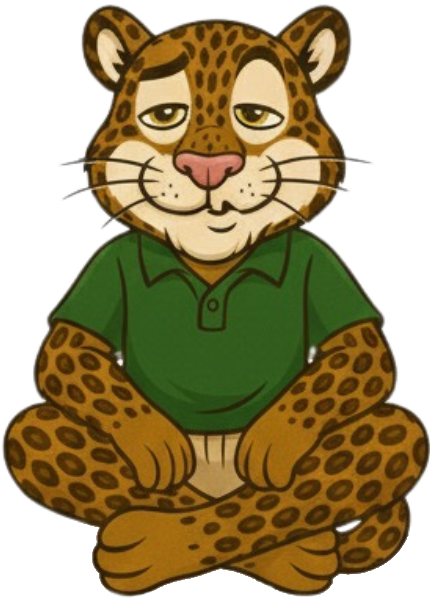
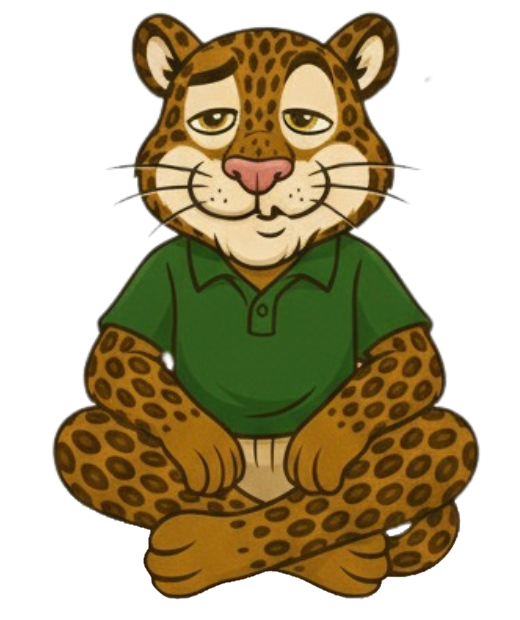
Align sprites

diff --git a/styles.css b/styles.css
@@ -165,21 +165,24 @@ body, html {
 .mascot-container {
     position: absolute;
     height: 50%;
+    width: 50%;
     top: 60%;
     left: 50%;
     transform: translate(-50%, -50%);
     text-align: center;
     z-index: 0;
+    background: url("sleeping.png") no-repeat center center;
 }
 
 .mascot {
     text-shadow: 4px 4px 8px rgba(0,0,0,0.3);
     transition: all 0.3s ease;
     filter: drop-shadow(0 10px 20px rgba(0,0,0,0.2));
+    
 }
 
 .mascot.sleeping {
-    /* animation: sleep 3s ease-in-out infinite; */
+    animation: sleep 3s ease-in-out infinite;
 }
 
 .mascot.awake {
@@ -201,15 +204,16 @@ body, html {
     filter: blur(12px);
 }
 
-/* @keyframes sleep {
-    0%, 100% { transform: scale(1) rotate(-2deg); }
-    50% { transform: scale(1.05) rotate(2deg); }
+@keyframes sleep {
+    /* 0%, 100% { transform: scale(1) rotate(-2deg); }
+    50% { transform: scale(1.05) rotate(2deg); } */
+    0%, 100% { transform: translateY(0) scale(1); }
 }
 
 @keyframes bounce {
     0%, 100% { transform: translateY(0) scale(1); }
     50% { transform: translateY(-20px) scale(1.1); }
-} */
+}
 
 .message {
     position: absolute;

diff --git a/sleeping-animation.css b/sleeping-animation.css
@@ -3,8 +3,8 @@
   top: 5%;
   left: 55%;
   /* transform: translate(-50%, -50%); */
-  width: 300px; /* Adjust as needed */
-  height: 300px; /* Adjust as needed */
+  width: 400px; 
+  height: 400px; 
   /* background-color: rgba(0, 0, 0, 0.1); /* For visualization of the container */
   overflow: hidden;
   z-index: 1;
@@ -63,14 +63,14 @@
 @keyframes sleepZ {
   0% {
     opacity: 1;
-    transform: translate(0, 0) scale(.5) rotate(-30deg);
+    transform: translate(0, 0) scale(1) rotate(-30deg);
   }
   50% {
     opacity: 1;
-    transform: translate(75px, -75px) scale(1);
+    transform: translate(75px, -75px) scale(1.4);
   }
   100% {
     opacity: 0;
-    transform: translate(150px, -150px) scale(0.5); 
+    transform: translate(150px, -150px) scale(01); 
   }
 }
